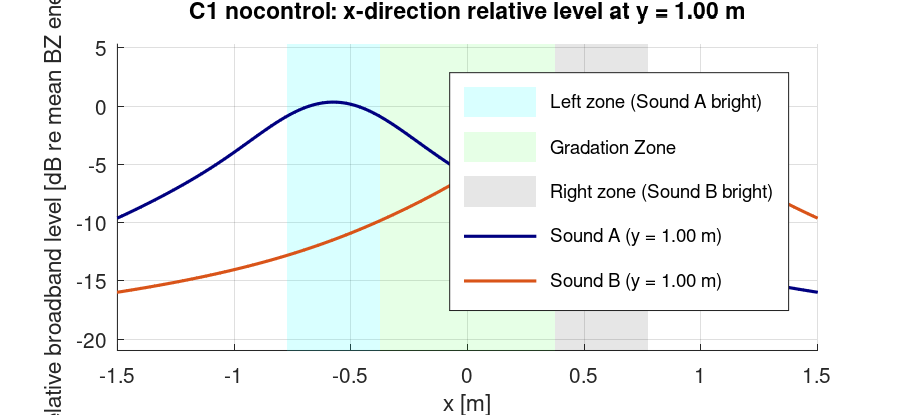
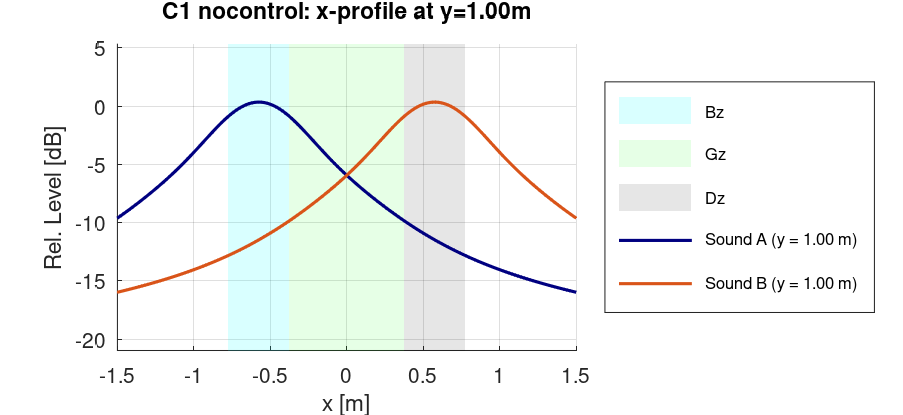
mapのラベル変更

diff --git a/plot_conditions.m b/plot_conditions.m
@@ -37,7 +37,7 @@ pc_conL = [pc_bzx(1)+pc_off, pc_zy(1)+pc_off; pc_bzx(1)+pc_off, pc_zy(2)-pc_off;
            pc_bzx(2)-pc_off, pc_zy(1)+pc_off; pc_bzx(1)+pc_off, pc_zy(1)+pc_off];   % 左のゾーン
 pc_conR = [pc_dzx(1)+pc_off, pc_zy(1)+pc_off; pc_dzx(1)+pc_off, pc_zy(2)-pc_off; pc_dzx(2)-pc_off, pc_zy(2)-pc_off; ...
            pc_dzx(2)-pc_off, pc_zy(1)+pc_off; pc_dzx(1)+pc_off, pc_zy(1)+pc_off];   % 右のゾーン
-pc_sound = {'Sound A (bright: left zone)', 'Sound B (bright: right zone)'};
+pc_sound = {'Sound A (Bright:L)', 'Sound B (Bright:R)'};
 
 % カラーマップ（spl_distribution.m と同じ: 黒 → 紫 → 赤 → 黄）
 pc_n = 256;  pc_c1 = round(pc_n/3);  pc_c2 = round(pc_n*2/3);
@@ -109,20 +109,20 @@ for q = 1:rw_n
         if any(c_.on)
             if any(~c_.on)
                 h(end+1) = scatter(pos_sp(~c_.on,1), pos_sp(~c_.on,2), 30, [0.6 0.6 0.6], '^');
-                lab{end+1} = 'Speaker (silent)';
+                lab{end+1} = 'spk (Off)';
             end
             h(end+1) = scatter(pos_sp(c_.on,1), pos_sp(c_.on,2), 40, [0.85 0.1 0.1], '^', 'filled');
-            lab{end+1} = sprintf('Speaker (active: %d)', nnz(c_.on));
+            lab{end+1} = sprintf('Spk (On: %d)', nnz(c_.on));
         else
             h(end+1) = scatter(pos_sp(:,1), pos_sp(:,2), 30, [0 0 0], '^', 'filled');
-            lab{end+1} = 'Speaker';
+            lab{end+1} = 'spk';
         end
-        pc_layers = {c_.bz,   'Bright zone points',      [0.25 0.60 0.75], 16;
-                     c_.gz,   'Gradation zone points',   [0.20 0.60 0.35], 12;
-                     c_.dz,   'Dark zone points',        [0.45 0.45 0.45], 12;
-                     c_.L,    'Dark: L-line points',     [0.80 0.00 0.00], 12;
-                     c_.dzin, 'Dark: DZ interior points',[0.90 0.55 0.15], 14;
-                     c_.fill, 'Dark: gap-fill points',   [0.60 0.20 0.70], 14};
+        pc_layers = {c_.bz,   'Bz pts',      [0.25 0.60 0.75], 16;
+                     c_.gz,   'Gz pts',   [0.20 0.60 0.35], 12;
+                     c_.dz,   'Dz pts',        [0.45 0.45 0.45], 12;
+                     c_.L,    'Dz: L-line',     [0.80 0.00 0.00], 12;
+                     c_.dzin, 'Dz: in',[0.90 0.55 0.15], 14;
+                     c_.fill, 'Dz: fill',   [0.60 0.20 0.70], 14};
         for L_ = 1:size(pc_layers, 1)
             P_ = pc_layers{L_, 1};
             if ~isempty(P_)
@@ -133,7 +133,7 @@ for q = 1:rw_n
         daspect([1 1 1]);  xlim(room_size(1:2));  ylim(room_size(3:4));  grid on;  box on;
         xlabel('x [m]');  ylabel('y [m]');
         title(sprintf('%s: %s', ttl, pc_sound{s}));
-        lg = legend(h, lab(1:numel(h)), 'Location', 'northeast');  set(lg, 'FontSize', 7);
+        lg = legend(h, lab(1:numel(h)), 'Location', 'eastoutside' ,  'FontSize', 7); 
     end
     saveas(fig, fullfile(pc_dir, [pc_names{q} '_control_points.png']), 'png');  close(fig);
 
@@ -172,18 +172,18 @@ for q = 1:rw_n
     % --- (3) 折れ線グラフ（y = zone_h。plot_spl_profile.m と同じ体裁）
     fig = figure('Visible', pc_vis, 'Position', [100, 100, 1000, 460]);
     y_lo = min([pc_LA(:,q); pc_LB(:,q)]) - 5;  y_hi = max([pc_LA(:,q); pc_LB(:,q)]) + 5;
-    patch([pc_bzx(1) pc_gzx(1) pc_gzx(1) pc_bzx(1)], [y_lo y_lo y_hi y_hi], 'c', 'FaceAlpha', 0.15, 'EdgeColor', 'none', 'DisplayName', 'Left zone (Sound A bright)');
+    patch([pc_bzx(1) pc_gzx(1) pc_gzx(1) pc_bzx(1)], [y_lo y_lo y_hi y_hi], 'c', 'FaceAlpha', 0.15, 'EdgeColor', 'none', 'DisplayName', 'Bz');
     hold on;
     if num_gz > 0
-        patch([pc_gzx(1) pc_gzx(2) pc_gzx(2) pc_gzx(1)], [y_lo y_lo y_hi y_hi], 'g', 'FaceAlpha', 0.1, 'EdgeColor', 'none', 'DisplayName', 'Gradation Zone');
+        patch([pc_gzx(1) pc_gzx(2) pc_gzx(2) pc_gzx(1)], [y_lo y_lo y_hi y_hi], 'g', 'FaceAlpha', 0.1, 'EdgeColor', 'none', 'DisplayName', 'Gz');
     end
-    patch([pc_gzx(2) pc_dzx(2) pc_dzx(2) pc_gzx(2)], [y_lo y_lo y_hi y_hi], 'k', 'FaceAlpha', 0.1, 'EdgeColor', 'none', 'DisplayName', 'Right zone (Sound B bright)');
+    patch([pc_gzx(2) pc_dzx(2) pc_dzx(2) pc_gzx(2)], [y_lo y_lo y_hi y_hi], 'k', 'FaceAlpha', 0.1, 'EdgeColor', 'none', 'DisplayName', 'Dz');
     plot(pc_xl, pc_LA(:,q), '-', 'Color', [0, 0, 0.5], 'LineWidth', 1.5, 'DisplayName', sprintf('Sound A (y = %.2f m)', zone_h));
     plot(pc_xl, pc_LB(:,q), '-', 'Color', [0.85, 0.33, 0.10], 'LineWidth', 1.5, 'DisplayName', sprintf('Sound B (y = %.2f m)', zone_h));
-    xlabel('x [m]');  ylabel('Relative broadband level [dB re mean BZ energy]');
-    title(sprintf('%s: x-direction relative level at y = %.2f m', ttl, zone_h));
+    xlabel('x [m]');  ylabel('Rel. Level [dB]');
+    title(sprintf('%s: x-profile at y=%.2fm', ttl, zone_h));
     xlim(room_size(1:2));  ylim([y_lo, y_hi]);  grid on;
-    legend('Location', 'best');
+    legend('Location', 'eastoutside','FontSize', 8); 
     drawnow;
     saveas(fig, fullfile(pc_dir, [pc_names{q} '_profile.png']), 'png');  close(fig);
 end
@@ -198,9 +198,9 @@ for s = 1:2
         plot(pc_xl, Lc(:,q), 'Color', pc_col(mod(q-1, 4)+1, :), 'LineWidth', 1.4);
     end
     xlim(room_size(1:2));  grid on;  box on;
-    xlabel('x [m]');  ylabel('Relative broadband level [dB re mean BZ energy]');
+    xlabel('x [m]');  ylabel('Rel. Level [dB]');
     title(sprintf('%s (y = %.2f m)', pc_sound{s}, zone_h));
-    legend(strrep(pc_names, '_', ' '), 'Location', 'south');
+    legend(strrep(pc_names, '_', ' '), 'Location', 'southoutside', 'NumColumns', 2);
 end
 saveas(fig, fullfile(pc_dir, 'profile_compare.png'), 'png');  close(fig);
 
